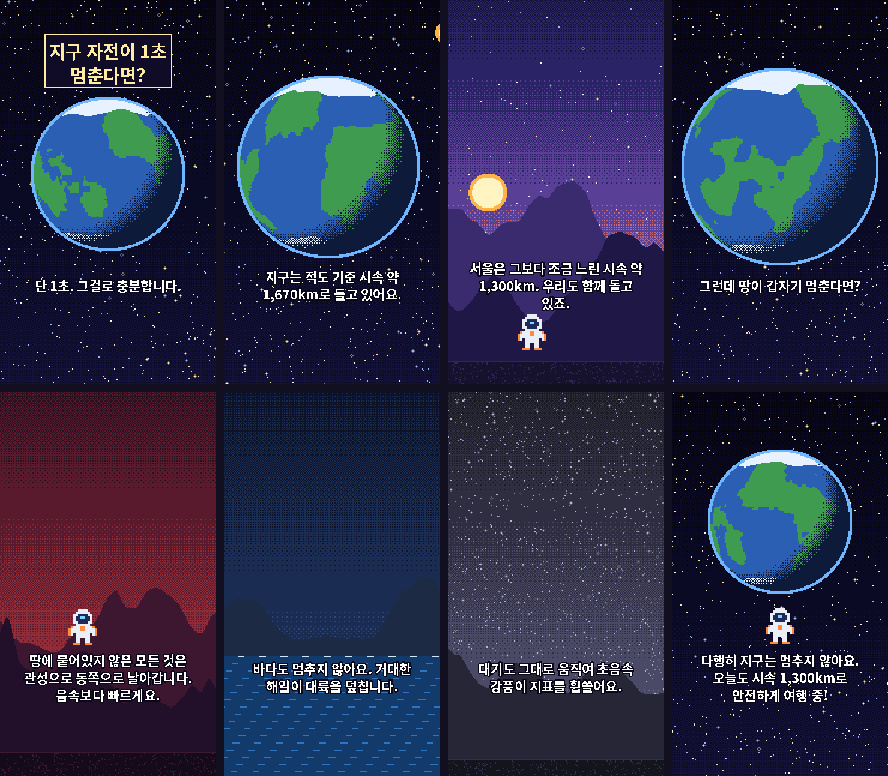
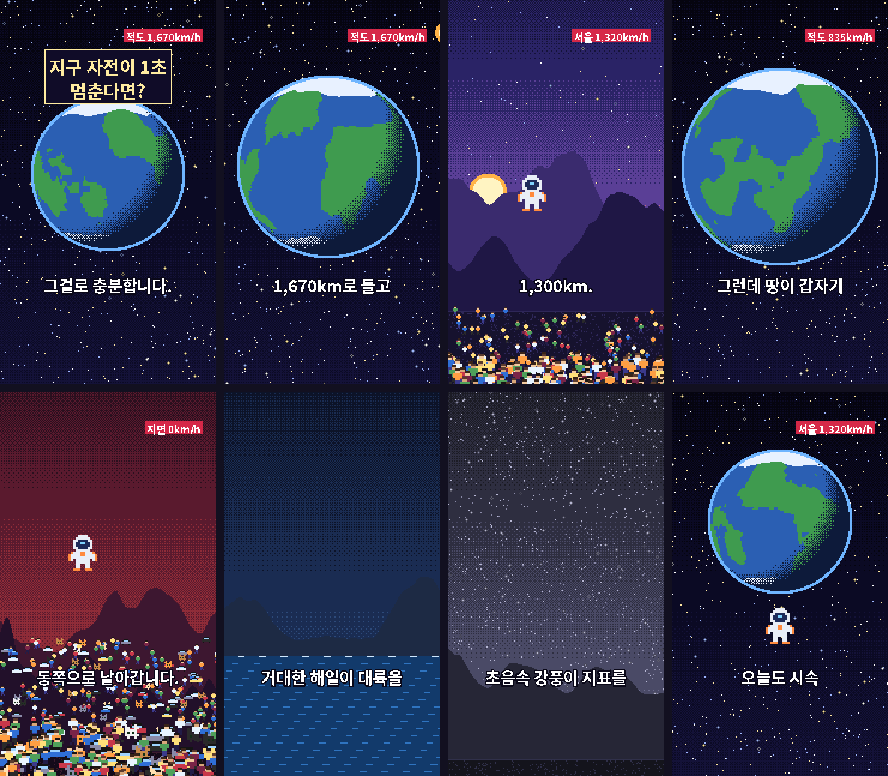
군중 레이어, 시계·카운터 HUD, 끊어 읽는 자막 추가
- crowd: 사람/고양이/강아지/자동차 미니 스프라이트 수천 개를 원근 배치,
  들썩임 4단계를 미리 렌더링해 순환 (프레임당 비용 거의 없음)
- hud: 시계(자정 넘김 포함), 숫자 카운터, 고정 문구 배지
- 자막 기본값을 2~5단어 덩어리로 변경, captions 목록 직접 지정 지원
- --length 제한 해제 (90초, 120초 등)
- 예제에 자전 속도 계기판과 군중 장면 반영

Claude-Session: https://claude.ai/code/session_019ZungQL2cvCzCujgW1qoTa

diff --git a/if60/render.py b/if60/render.py
@@ -138,6 +138,56 @@ class Scene:
     camera: dict = field(default_factory=dict)
     effects: list = field(default_factory=list)
     typewriter: bool = False
+    caption_mode: str = "chunk"           # chunk | full | typewriter
+    captions: list[str] | None = None     # 직접 나눈 자막 덩어리 (있으면 caption보다 우선)
+    hud: object = None                    # "+1년" 같은 고정 문구 또는 {from, to, format, step}
+
+
+# ------------------------------------------------------------------ HUD
+def _parse_clock(s) -> int | None:
+    if isinstance(s, str) and ":" in s:
+        h, m = s.split(":")
+        return int(h) * 60 + int(m)
+    return None
+
+
+def hud_label(hud, t: float, duration: float) -> str | None:
+    """시계('05:00'→'06:30')나 숫자(1670→0) 카운터를 장면 진행에 맞춰 보간한다."""
+    if hud is None or hud == "":
+        return None
+    if not isinstance(hud, dict):
+        return str(hud)
+    a, b = hud.get("from"), hud.get("to", hud.get("from"))
+    p = min(1.0, max(0.0, t / max(duration, 1e-6)))
+    if hud.get("ease", True):
+        p = _ease(p)
+    ca, cb = _parse_clock(a), _parse_clock(b)
+    if ca is not None and cb is not None:
+        if cb < ca:  # 자정을 넘어가는 경우 (23:30 → 00:30)
+            cb += 24 * 60
+        step = int(hud.get("step", 10))  # 시계는 10분 단위로 '딸깍' 넘어가게
+        m = int(round((ca + (cb - ca) * p) / step) * step) % (24 * 60)
+        return hud.get("format", "{}").format(f"{m // 60:02d}:{m % 60:02d}")
+    v = float(a) + (float(b) - float(a)) * p
+    if "step" in hud:
+        v = round(v / float(hud["step"])) * float(hud["step"])
+    return hud.get("format", "{:,.0f}").format(v)
+
+
+def caption_at(scene: "Scene", t: float) -> str:
+    """현재 시각에 보여줄 자막. chunk 모드는 글자 수에 비례해 덩어리를 순서대로 보여준다."""
+    if scene.captions:
+        chunks = scene.captions
+    elif scene.caption_mode == "chunk" and scene.caption and not scene.typewriter:
+        chunks = text.chunk_caption(scene.caption)
+    else:
+        return scene.caption
+    lead, tail = 0.15, 0.25
+    span = max(0.1, scene.duration - lead - tail)
+    weights = np.array([len(c) + 3 for c in chunks], float)
+    edges = lead + np.cumsum(weights) / weights.sum() * span
+    i = int(np.searchsorted(edges, t, side="right"))
+    return chunks[min(i, len(chunks) - 1)]
 
 
 def _ease(x: float) -> float:
@@ -226,7 +276,9 @@ def load_project(path: str, style_override: str | None = None,
         scenes.append(Scene(
             duration=float(s["duration"]) * ratio, layers=layers, caption=s.get("caption", ""),
             title=s.get("title", ""), camera=s.get("camera", {}) or {},
-            effects=s.get("effects", []) or [], typewriter=bool(s.get("typewriter", False))))
+            effects=s.get("effects", []) or [], typewriter=bool(s.get("typewriter", False)),
+            caption_mode=s.get("caption_mode", spec.get("caption_mode", "chunk")),
+            captions=s.get("captions"), hud=s.get("hud")))
     return spec, style, scenes
 
 
@@ -235,18 +287,28 @@ def _text_layer(scene: Scene, t: float, style: Style, font: str) -> np.ndarray |
     out = None
     if scene.title:
         out = text.render_text((tw, th), scene.title, font_path=font, size=style.title_size,
-                               y=0.16, color=(255, 236, 160), box=(16, 12, 40))
-    if scene.caption:
-        vis = None
-        if scene.typewriter:
-            vis = int(len(scene.caption) * min(1.0, t / max(0.6, scene.duration * 0.45))) + 1
-        cap = text.render_text((tw, th), scene.caption, font_path=font, size=style.caption_size,
-                               y=0.74, visible_chars=vis)
+                               y=0.2, color=(255, 236, 160), box=(16, 12, 40))
+    def merge(layer: np.ndarray) -> None:
+        nonlocal out
         if out is None:
-            out = cap
+            out = layer
         else:
-            m = cap[..., 3] == 255
-            out[m] = cap[m]
+            m = layer[..., 3] == 255
+            out[m] = layer[m]
+
+    cap_text = caption_at(scene, t) if (scene.caption or scene.captions) else ""
+    if cap_text:
+        vis = None
+        if scene.typewriter or scene.caption_mode == "typewriter":
+            vis = int(len(cap_text) * min(1.0, t / max(0.6, scene.duration * 0.45))) + 1
+        size = style.caption_size if (scene.typewriter or scene.caption_mode != "chunk") \
+            else int(style.caption_size * 1.25)  # 덩어리 자막은 짧으니 더 크게
+        merge(text.render_text((tw, th), cap_text, font_path=font, size=size, y=0.74,
+                               visible_chars=vis))
+    label = hud_label(scene.hud, t, scene.duration)
+    if label:
+        merge(text.render_badge((tw, th), label, font_path=font,
+                                size=int(style.caption_size * 0.8)))
     return out
 
 

diff --git a/if60/procedural.py b/if60/procedural.py
@@ -266,9 +266,101 @@ def paste(dst: RGBA, src: RGBA, ox: int, oy: int) -> None:
     d[m] = s[m]
 
 
+# ---------------------------------------------------------------- crowd
+# 군중용 미니 스프라이트 (원작 디자인). 문자 → 색 슬롯: B=몸/옷, D=어두운 색, H=머리, F=얼굴, P=바지, E=눈
+_CROWD_SPRITES = {
+    "person": ([".HH.", ".FF.", "BBBB", "BBBB", ".BB.", ".PP.", ".PP.", ".P.P"], 1),
+    "cat": (["B...B.", "BB..BB", "BBBBB.", "BEBEB.", "BBBBBB", ".B..B."], 1),
+    "dog": (["D.....", "DBBB..", "BEBBBB", "BBBBBB", ".BBBB.", ".B..B."], 1),
+    "car": (["..DDDD..", ".DFFFFD.", "BBBBBBBB", "BBBBBBBB", ".D....D."], 1),
+}
+_CROWD_COLORS = {
+    "person": {"B": ["#c8384a", "#2f6fd6", "#4fa05a", "#ffe07a", "#e8f4ff", "#7a2448", "#ff9f43"],
+               "H": ["#1a1414", "#3a2418", "#5a3b2e"], "F": ["#f2c9a0", "#d9a77a"],
+               "P": ["#221c47", "#3b3a8c", "#2a2a2a"]},
+    "cat": {"B": ["#ff9f43", "#f2f2f2", "#2a2a2a", "#8a8aa8", "#c98a4a", "#ffe0b0"], "E": ["#123018"]},
+    "dog": {"B": ["#c98a4a", "#f2f2f2", "#5a3b2e", "#e0c080", "#2a2a2a"], "D": ["#3a2418"],
+            "E": ["#101010"]},
+    "car": {"B": ["#c8384a", "#2f6fd6", "#e8f4ff", "#2a2a2a", "#ffe07a", "#8a8aa8"],
+            "D": ["#141414"], "F": ["#9fd3ff"]},
+}
+
+
+def _crowd_sprite(kind: str, rng: np.random.Generator) -> RGBA:
+    rows, _ = _CROWD_SPRITES[kind]
+    cols = {k: _c(rng.choice(v)) for k, v in _CROWD_COLORS[kind].items()}
+    spr = _rgba(len(rows), len(rows[0]))
+    for y, row in enumerate(rows):
+        for x, ch in enumerate(row):
+            if ch in cols:
+                spr[y, x] = (*cols[ch], 255)
+    if rng.random() < 0.5:
+        spr = spr[:, ::-1]  # 좌우 반전으로 다양성
+    return spr
+
+
+def crowd(w: int, h: int, agent: str = "cat", count: int = 800, top: float = 0.55,
+          bottom: float = 1.0, near_scale: int = 2, vx: float = 0.0, bob: float = 0.35,
+          mix: dict | None = None, grid: float = 0.0, seed: int = 7, **_) -> Layer:
+    """수백~수천 개의 미니 스프라이트로 군중을 만든다 ('시뮬레이션' 느낌의 핵심).
+
+    agent: person | cat | dog | car (또는 mix: {cat: 0.8, person: 0.2})
+    top/bottom: 군중이 차지할 세로 범위(비율). 위쪽은 멀리(작게), 아래쪽은 가까이(크게).
+    vx: 군중 전체가 흘러가는 속도(px/초, +는 오른쪽). bob: 들썩이는 개체 비율.
+    grid: 0~1. 클수록 줄 맞춰 선 대열 (시험장, 행진 등).
+
+    성능: 개체를 매 프레임 그리지 않고 들썩임 4단계를 미리 렌더링해 두고 순환시킨다.
+    """
+    rng = np.random.default_rng(seed)
+    kinds = list((mix or {agent: 1.0}).items())
+    names = [k for k, _ in kinds]
+    probs = np.array([p for _, p in kinds], float)
+    probs /= probs.sum()
+    y0, y1 = int(h * top), int(h * bottom)
+    agents = []
+    for i in range(count):
+        if grid > 0:
+            cols_n = max(1, int(math.sqrt(count * w / max(1, (y1 - y0)))))
+            gx, gy = i % cols_n, i // cols_n
+            rows_n = math.ceil(count / cols_n)
+            x = (gx + 0.5) / cols_n * w + rng.normal(0, (1 - grid) * 4)
+            y = y0 + (gy + 0.5) / rows_n * (y1 - y0) + rng.normal(0, (1 - grid) * 3)
+        else:
+            # 원근: 아래쪽일수록 밀도가 낮고 크게 → y를 제곱근 분포로
+            y = y0 + (y1 - y0) * rng.random() ** 0.8
+            x = rng.random() * w
+        depth = (y - y0) / max(1, y1 - y0)
+        scale = near_scale if depth > 0.55 else 1
+        spr = _crowd_sprite(rng.choice(names, p=probs), rng)
+        if scale > 1:
+            spr = spr.repeat(scale, 0).repeat(scale, 1)
+        phase = int(rng.integers(0, 4)) if rng.random() < bob else -1
+        agents.append((y, int(x), spr, phase))
+    agents.sort(key=lambda a: a[0])  # 먼 개체부터 그려서 가까운 개체가 위로
+
+    variants = []
+    for v in range(4):
+        img = _rgba(h, w)
+        for y, x, spr, phase in agents:
+            lift = 1 if (phase >= 0 and (v + phase) % 4 < 2) else 0
+            yy = int(y) - spr.shape[0] - lift
+            paste(img, spr, x - spr.shape[1] // 2, yy)
+            if vx:  # 가로로 흐를 때 이음매가 생기지 않게 양쪽에도 그림
+                paste(img, spr, x - spr.shape[1] // 2 - w, yy)
+                paste(img, spr, x - spr.shape[1] // 2 + w, yy)
+        variants.append(img)
+
+    def animate(_: RGBA, t: float) -> RGBA:
+        img = variants[int(t * 6) % 4]
+        return np.roll(img, int(round(vx * t)), axis=1) if vx else img
+
+    return Layer(variants[0], speed=1.0, animator=animate)
+
+
 KINDS = {
     "sky": sky, "starfield": starfield, "planet": planet, "sun": sun,
     "mountains": mountains, "ground": ground, "ocean": ocean, "mascot": mascot,
+    "crowd": crowd,
 }
 
 

diff --git a/if60/text.py b/if60/text.py
@@ -55,6 +55,50 @@ def wrap(text: str, font: ImageFont.FreeTypeFont, max_w: int) -> list[str]:
     return lines
 
 
+def chunk_caption(text: str, max_chars: int = 11) -> list[str]:
+    """내레이션 자막을 2~5단어 덩어리로 자른다 (쇼츠에서 가장 읽기 쉬운 단위).
+    문장부호(. ! ? ,) 뒤에서는 항상 끊는다."""
+    chunks, cur = [], ""
+    for word in text.replace("\n", " ").split():
+        trial = f"{cur} {word}".strip()
+        if cur and len(trial) > max_chars:
+            chunks.append(cur)
+            cur = word
+        else:
+            cur = trial
+        if cur and cur[-1] in ".!?,":
+            chunks.append(cur.rstrip(","))
+            cur = ""
+    if cur:
+        chunks.append(cur)
+    return chunks
+
+
+def render_badge(canvas: tuple[int, int], label: str, *, font_path: str, size: int = 16,
+                 x: float = 0.94, y: float = 0.075, fg=(255, 255, 255),
+                 bg=(214, 40, 72)) -> np.ndarray:
+    """화면 구석의 HUD 배지 (시계, 카운터, '+1년' 등). x,y는 배지 오른쪽 위 기준 비율."""
+    w, h = canvas
+    img = Image.new("RGBA", canvas, (0, 0, 0, 0))
+    d = ImageDraw.Draw(img)
+    font = _font(font_path, size)
+    tw = int(font.getlength(label))
+    pad = max(3, size // 4)
+    x1, y0 = int(w * x), int(h * y)
+    x0 = x1 - tw - pad * 2
+    d.rectangle((x0, y0, x1, y0 + size + pad), fill=(*bg, 255))
+    d.text((x0 + pad, y0 + pad // 2 - 1), label, font=font, fill=(*fg, 255))
+    arr = np.asarray(img).copy()
+    a = arr[..., 3]
+    arr[..., 3] = np.where(a > 110, 255, 0).astype(np.uint8)
+    on = arr[..., 3] == 255
+    rgb = arr[..., :3].astype(np.int32)
+    near_fg = ((rgb - np.array(fg)) ** 2).sum(-1) < ((rgb - np.array(bg)) ** 2).sum(-1)
+    arr[on & near_fg, :3] = fg
+    arr[on & ~near_fg, :3] = bg
+    return arr
+
+
 def render_text(canvas: tuple[int, int], text: str, *, font_path: str, size: int = 22,
                 y: float = 0.72, color=(255, 255, 255), outline=(10, 8, 24),
                 box: tuple[int, int, int] | None = None, align: str = "center",

diff --git a/tests/test_pipeline.py b/tests/test_pipeline.py
@@ -58,3 +58,29 @@ def test_quantize_fixed_palette():
     pal = np.array([[0, 0, 0], [255, 255, 255]], np.float32)
     rgb = np.array([[[10, 10, 10], [240, 240, 240]]], np.float32)
     assert quantize(rgb, pal).tolist() == [[0, 1]]
+
+
+def test_chunk_caption_splits_into_short_pieces():
+    from if60.text import chunk_caption
+    chunks = chunk_caption("땅에 붙어있지 않은 모든 것은 관성으로 동쪽으로 날아갑니다. 음속보다 빠르게요.")
+    assert len(chunks) >= 4
+    assert all(len(c) <= 14 for c in chunks)
+    assert chunks[-1] == "음속보다 빠르게요."
+
+
+def test_hud_clock_and_counter():
+    from if60.render import hud_label
+    assert hud_label({"from": "05:00", "to": "06:00", "ease": False}, 0, 10) == "05:00"
+    assert hud_label({"from": "05:00", "to": "06:00", "ease": False}, 5, 10) == "05:30"
+    assert hud_label({"from": "23:30", "to": "00:30", "ease": False}, 10, 10) == "00:30"
+    assert hud_label({"from": "23:30", "to": "00:30", "ease": False}, 5, 10) == "00:00"
+    assert hud_label({"from": 1670, "to": 0, "format": "{:,.0f}km/h", "ease": False}, 10, 10) == "0km/h"
+    assert hud_label("+1년", 3, 10) == "+1년"
+
+
+def test_crowd_layer_animates_and_scrolls():
+    layer = procedural.make("crowd", 120, 200, agent="cat", count=150, vx=30, seed=1)
+    a, b = layer.frame(0.0), layer.frame(1.0)
+    assert a.shape == (200, 120, 4)
+    assert (a[..., 3] == 255).sum() > 500
+    assert not np.array_equal(a, b)

diff --git a/if60/__main__.py b/if60/__main__.py
@@ -21,7 +21,7 @@ def main(argv: list[str] | None = None) -> int:
     r.add_argument("scenes")
     r.add_argument("-o", "--out", default=None)
     r.add_argument("--style", help="스타일 프리셋 (YAML의 style 대신)")
-    r.add_argument("--length", type=float, choices=[30, 45, 60], help="총 길이(초)로 장면 길이를 비례 조정")
+    r.add_argument("--length", type=float, help="총 길이(초)로 장면 길이를 비례 조정 (예: 30, 60, 120)")
     r.add_argument("--provider", help="이미지 생성 제공자: mock | openai")
     r.add_argument("--preview", action="store_true", help="1/3 해상도로 빠르게 확인")
     r.add_argument("--stills", help="장면별 대표 프레임 PNG를 저장할 폴더")
